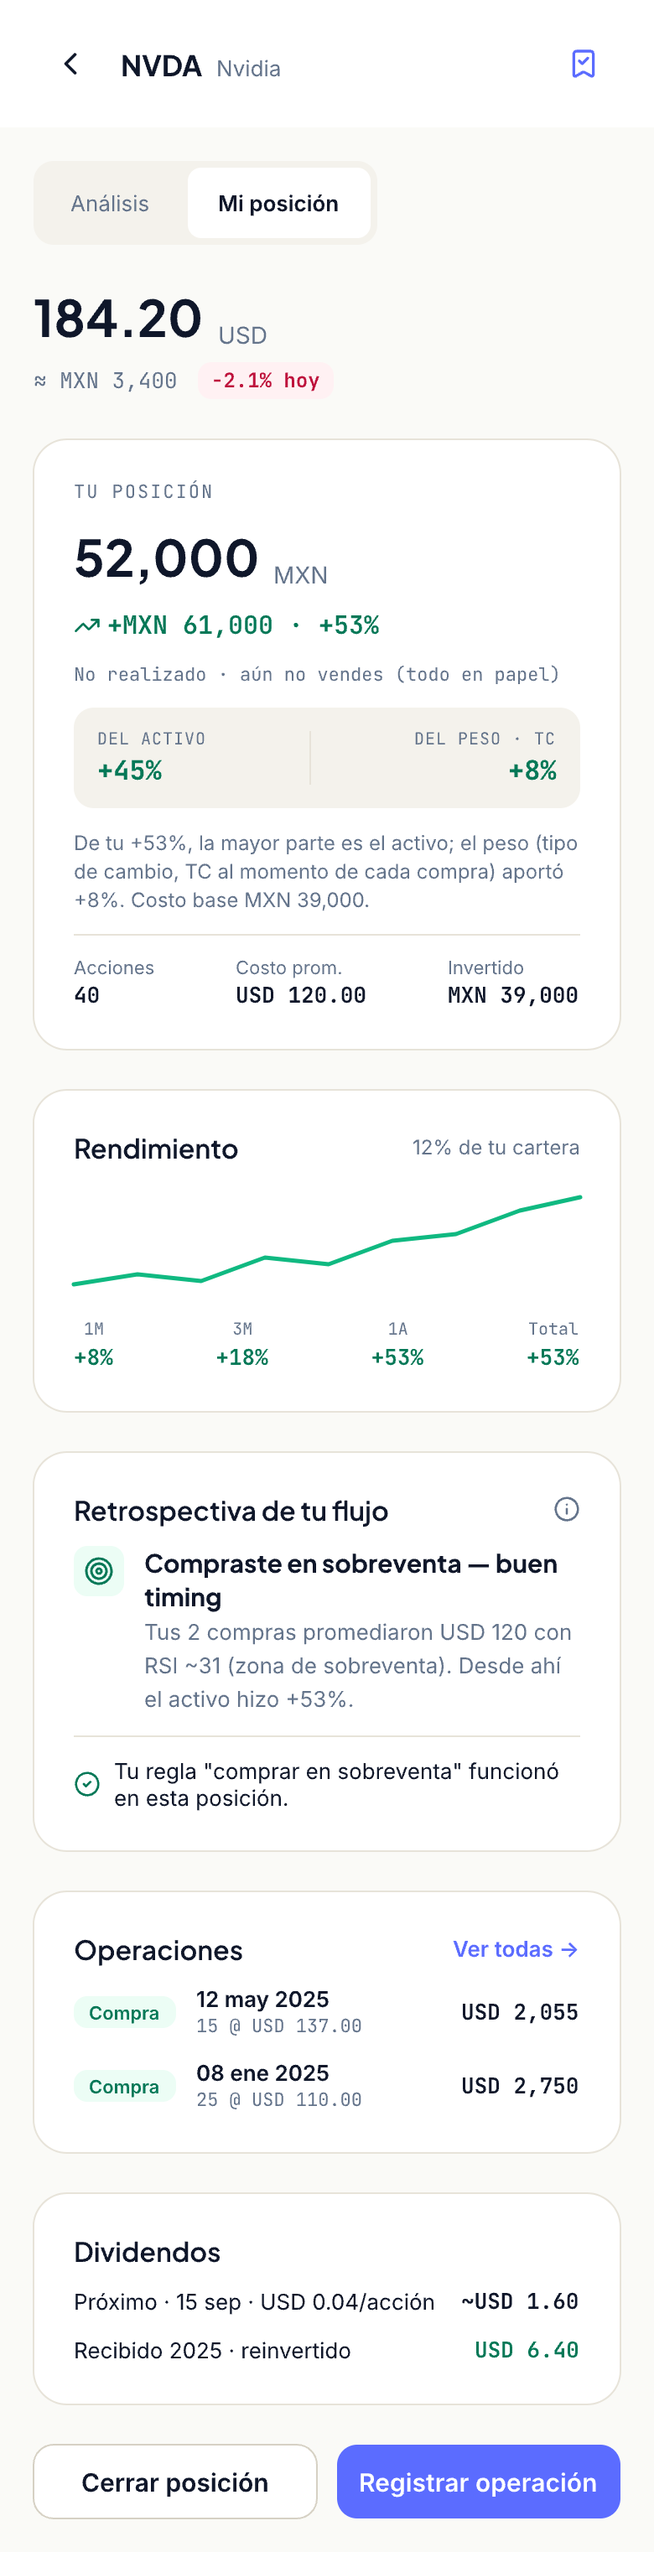
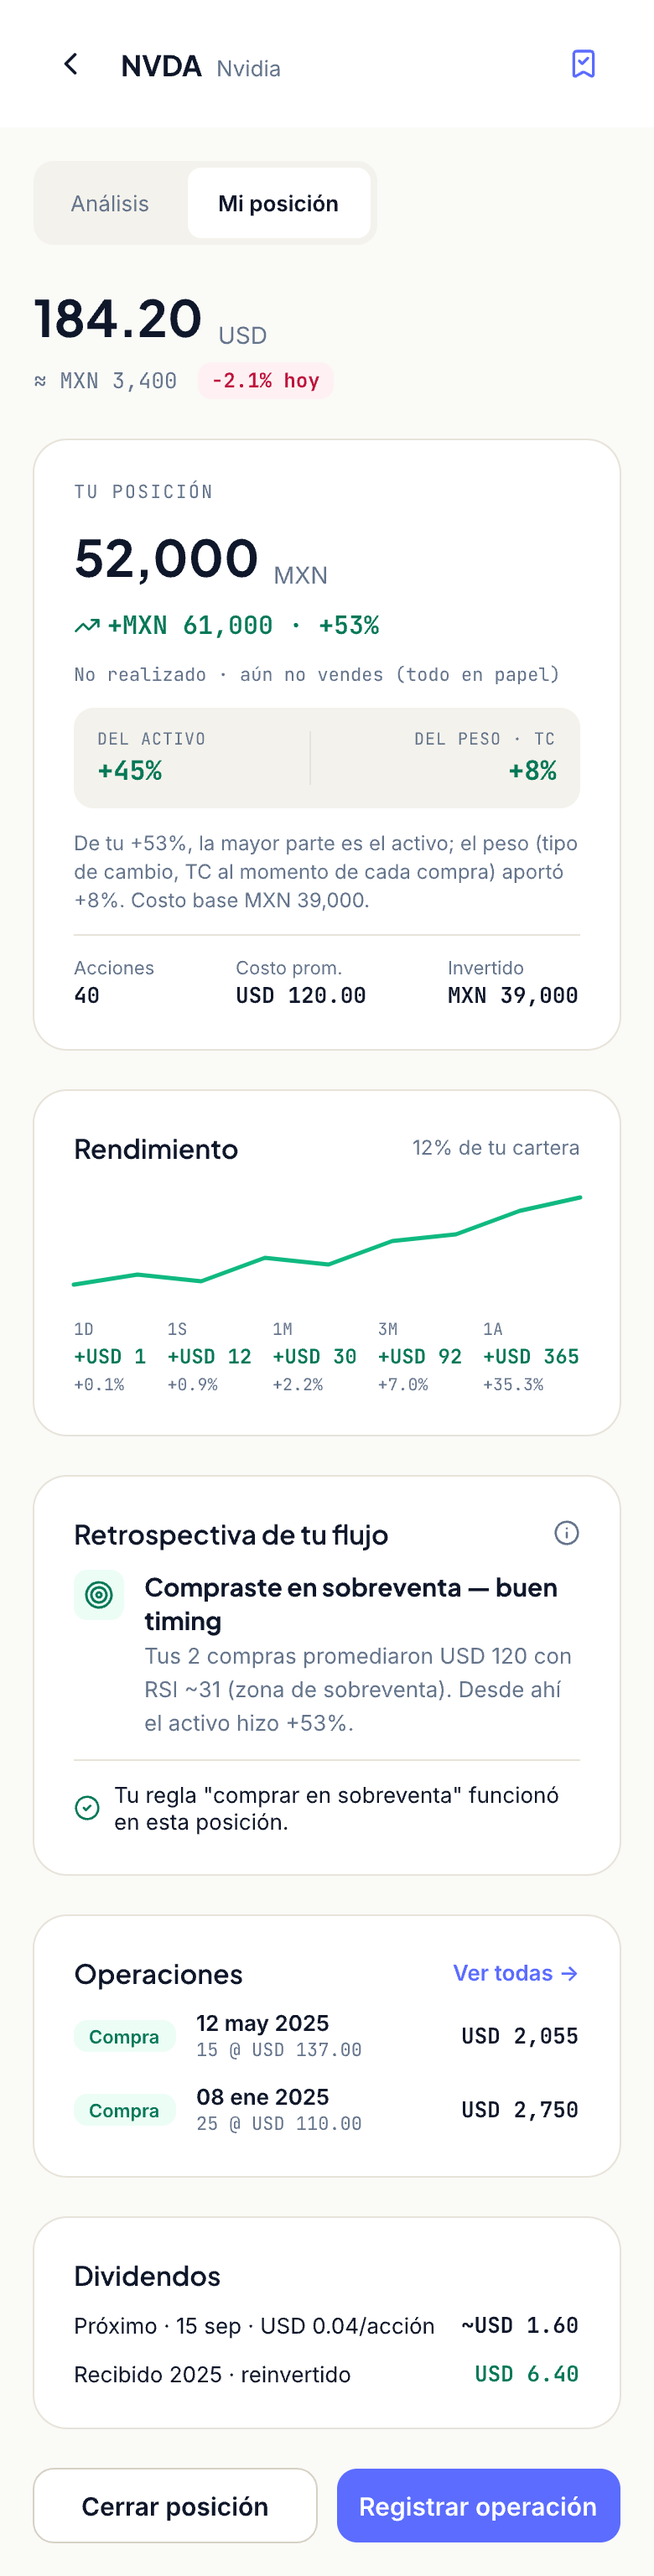
Build Rendimiento with the five windows the trigger asked for
D89 deferred this on its trigger and was right to. The trigger arrived,
and it changed the block: two of the windows Adrian asked for are not on
the artboard, and one the artboard drew came off.

Total came off because Tu posición already is it — the same number, on
the same screen, six centimetres up. Dropping it also keeps the control
at five, which the chart's own range pills already prove fits 390px;
measured on the artboard, five columns carrying money do fit.

Money leads and the percentage follows. 1D as a percentage is the day
change the header already renders, so the pesos are the whole
contribution the block makes.

Money-weighted, which is the opposite call from D12 and deliberately so.
D12 chose time-weighted for the portfolio because that screen compares
against CETES and a deposit must not read as performance. This compares
against nothing: the question is how many pesos this made since Friday.
What it still must not do is count money you added, so the flows come
out — and ExternalFlows gained an asset scope rather than a sibling.

Two defects found by building it. asset_value_on answered 0 for an
unpriceable asset, which is right as one term of a portfolio sum and
wrong as a whole answer: "we cannot say" is not "worth nothing". And
every figure here crosses currencies against a Portfolio#convert that
fails loudly by design, so the first version took the asset detail down
on a missing rate — the exact caller ADR-0023 names as the defect
[…]

diff --git a/spec/contexts/trading/domain/position_returns_spec.rb b/spec/contexts/trading/domain/position_returns_spec.rb
@@ -1,0 +1,98 @@
+require "rails_helper"
+
+RSpec.describe Trading::Domain::PositionReturns do
+  let(:user) { create(:user, preferred_currency: "USD") }
+  let(:portfolio) { create(:portfolio, user: user) }
+  let(:asset) { create(:asset, symbol: "NVDA", currency: "USD") }
+
+  def close(date, price)
+    create(:asset_price_history, asset: asset, date: date, close: price, open: price, high: price, low: price)
+  end
+
+  def buy(shares, price, on:)
+    create(:trade, portfolio: portfolio, asset: asset, side: :buy,
+                   shares: shares, price_per_share: price, executed_at: on)
+  end
+
+  def windows_for
+    described_class.new(portfolio, asset, currency: "USD").windows.index_by(&:key)
+  end
+
+  describe "a position held through the whole window" do
+    before do
+      buy(10, 100, on: 400.days.ago)
+      400.downto(0) { |d| close(d.days.ago.to_date, 100 + ((400 - d) * 0.1)) }
+    end
+
+    it "reports what the window made in money" do
+      # One day of drift at 0.10 a day, ten shares. Asserted on 1D because its
+      # boundary is exact; a month's is whatever the calendar says it is.
+      expect(windows_for["1D"].amount).to be_within(0.01).of(10 * 0.1)
+    end
+
+    it "states the move as a percentage of what was in at the start" do
+      w = windows_for["1A"]
+
+      expect(w.percent).to be_within(0.5).of(w.amount / (10 * (100 + (35 * 0.1))) * 100)
+    end
+
+    it "offers every window, because the position outlives all of them" do
+      expect(windows_for.keys).to match_array(%w[1D 1S 1M 3M 1A])
+    end
+  end
+
+  describe "a window that opens before the position did" do
+    before do
+      buy(10, 100, on: 3.days.ago)
+      10.downto(0) { |d| close(d.days.ago.to_date, 100 + d) }
+    end
+
+    it "is absent rather than zero — not owning it is not the same as not moving" do
+      expect(windows_for.keys).to eq(%w[1D])
+      expect(windows_for["1S"]).to be_nil
+    end
+  end
+
+  describe "money added inside the window" do
+    before do
+      buy(10, 100, on: 60.days.ago)
+      60.downto(0) { |d| close(d.days.ago.to_date, 100) }
+      buy(10, 100, on: 5.days.ago)
+    end
+
+    # The price never moved, so the position earned nothing. A plain
+    # start-to-end diff would call the second purchase a 100% gain — D12's
+    # falsehood, at position scope.
+    it "does not count a purchase as a return" do
+      expect(windows_for["1M"].amount).to be_within(0.01).of(0)
+      expect(windows_for["1M"].percent).to be_within(0.01).of(0)
+    end
+  end
+
+  describe "a sale inside the window" do
+    before do
+      buy(20, 100, on: 60.days.ago)
+      60.downto(0) { |d| close(d.days.ago.to_date, 100) }
+      create(:trade, portfolio: portfolio, asset: asset, side: :sell,
+                     shares: 10, price_per_share: 100, executed_at: 5.days.ago)
+    end
+
+    it "does not read taking money out as a loss" do
+      expect(windows_for["1M"].amount).to be_within(0.01).of(0)
+    end
+  end
+
+  describe "an asset with no price history at all" do
+    before { buy(10, 100, on: 30.days.ago) }
+
+    it "reports nothing rather than guessing" do
+      expect(windows_for).to be_empty
+    end
+  end
+
+  describe "the windows offered" do
+    it "does not include Total, which Tu posición already is" do
+      expect(described_class::WINDOWS.keys).not_to include("Total")
+    end
+  end
+end

diff --git a/app/contexts/trading/domain/position_returns.rb b/app/contexts/trading/domain/position_returns.rb
@@ -1,0 +1,77 @@
+module Trading
+  module Domain
+    # What one position made or lost over a window, in money (#611).
+    #
+    # Money-weighted on purpose, and it is the opposite call from D12's. That
+    # decision chose time-weighted for the portfolio because the screen it
+    # feeds compares against CETES, and a deposit must not read as performance.
+    # This block compares against nothing: the question is "how many pesos did
+    # this position make me since Friday", and the honest answer to that counts
+    # the pesos. What it must not do is count money you *added* as money it
+    # earned — so the flows come out, and only the flows.
+    class PositionReturns
+      Window = Data.define(:key, :amount, :percent)
+
+      # No `Total`. The artboard drew one, and `Tu posición` already is one —
+      # a second copy of the same number on the same screen is not a window
+      # (D95). These five are the ones that did not exist.
+      WINDOWS = {
+        "1D" => -> { 1.day.ago.to_date },
+        "1S" => -> { 1.week.ago.to_date },
+        "1M" => -> { 1.month.ago.to_date },
+        "3M" => -> { 3.months.ago.to_date },
+        "1A" => -> { 1.year.ago.to_date }
+      }.freeze
+
+      # ADR-0023: a screen that converts without an FxDegradation is the defect
+      # that guard exists to prevent. Every figure here crosses currencies, so
+      # a missing rate makes the window absent and the screen able to say why —
+      # it must never take the asset detail down with it.
+      def initialize(portfolio, asset, currency:, degradation: FxDegradation.new)
+        @asset       = asset
+        @degradation = degradation
+        @valuation   = HistoricalValuation.new(portfolio, currency: currency)
+        @flows       = ExternalFlows.new(portfolio, currency: currency, asset: asset)
+      end
+
+      delegate :degraded?, to: :@degradation
+
+      def windows
+        @windows ||= begin
+          current = value_on(Date.current)
+          current.nil? ? [] : WINDOWS.filter_map { |key, from| window(key, from.call, current) }
+        end
+      end
+
+      private
+
+      # Absent, not zero, when the window opens before the position did: not
+      # having owned it yet is a different answer from not having moved, the
+      # same distinction DayChange draws for a newly tracked asset.
+      def window(key, from, current)
+        opened = value_on(from)
+        return nil if opened.nil?
+
+        # from + 1: a trade executed on the opening day is already inside the
+        # value read for that day, so counting it again would remove it twice.
+        contributed = @degradation.figure { @flows.between(from + 1, Date.current) }
+        return nil if contributed.nil?
+
+        amount = current - opened - contributed
+        base = opened + contributed
+
+        Window.new(key: key, amount: amount, percent: percent_of(amount, base))
+      end
+
+      def percent_of(amount, base)
+        return nil unless base.positive?
+
+        amount / base * 100
+      end
+
+      def value_on(date)
+        @degradation.figure { @valuation.asset_value_on(@asset, date) }
+      end
+    end
+  end
+end

diff --git a/spec/requests/market_returns_spec.rb b/spec/requests/market_returns_spec.rb
@@ -1,0 +1,75 @@
+require "rails_helper"
+
+# The Rendimiento block (#611). D89 deferred it on its trigger; the trigger is
+# now documented, and it changed the block's shape: 1D and 1S are not on the
+# artboard, and Total came off it because Tu posición already is one.
+RSpec.describe "Market Rendimiento block", type: :request do
+  let!(:user) { create(:user, email: "rend@example.com", password: "password123", preferred_currency: "USD") }
+  let!(:portfolio) { create(:portfolio, user: user) }
+  let!(:asset) { create(:asset, symbol: "NVDA", currency: "USD") }
+
+  before { login_as(user) }
+
+  def hold_since(days, price_from:, price_to:)
+    position = create(:position, portfolio: portfolio, asset: asset, shares: 10,
+                                 avg_cost: price_from, status: :open, opened_at: days.days.ago)
+    create(:trade, portfolio: portfolio, asset: asset, position: position, side: :buy,
+                   shares: 10, price_per_share: price_from, executed_at: days.days.ago)
+    days.downto(0) do |d|
+      close = price_from + ((price_to - price_from) * (days - d) / days.to_f)
+      create(:asset_price_history, asset: asset, date: d.days.ago.to_date,
+                                   open: close, high: close, low: close, close: close)
+    end
+  end
+
+  it "shows what the position made over each window, in money" do
+    hold_since(400, price_from: 100, price_to: 140)
+
+    get market_asset_path(asset.symbol)
+
+    expect(response.body).to include("Rendimiento")
+    expect(response.body).to include("1 día", "1 sem", "1 mes", "3 meses", "1 año")
+  end
+
+  it "does not offer a window older than the position" do
+    hold_since(10, price_from: 100, price_to: 110)
+
+    get market_asset_path(asset.symbol)
+
+    expect(response.body).to include("1 día", "1 sem")
+    expect(response.body).not_to include("3 meses")
+  end
+
+  it "stays away entirely when nothing is held" do
+    create(:asset_price_history, asset: asset, date: Date.current, close: 100)
+
+    get market_asset_path(asset.symbol)
+
+    expect(response.body).not_to include("Rendimiento")
+  end
+
+  # The bug this block introduced before it was guarded: Portfolio#convert
+  # fails loudly on a missing rate — correct, and by design — so an unguarded
+  # conversion took the whole asset detail down with it (ADR-0023).
+  it "goes absent and says why when the rate is missing, rather than 500ing" do
+    user.update!(preferred_currency: "MXN")
+    hold_since(400, price_from: 100, price_to: 140)
+    FxRate.delete_all
+    FxRateHistory.delete_all
+
+    get market_asset_path(asset.symbol)
+
+    expect(response).to have_http_status(:ok)
+    expect(response.body).to include(I18n.t("comun.sin_tc_titulo"))
+  end
+
+  # The header already states the day change as a percentage. The block earns
+  # its place by being in money, so the money is what must be there.
+  it "leads with pesos, not with the percentage the header already shows" do
+    hold_since(400, price_from: 100, price_to: 140)
+
+    get market_asset_path(asset.symbol)
+
+    expect(response.body).to match(/[+−]USD/)
+  end
+end

diff --git a/app/contexts/trading/domain/external_flows.rb b/app/contexts/trading/domain/external_flows.rb
@@ -4,16 +4,27 @@ module Trading
     # With no cash model (D26) every buy is an inflow and every sell an
     # outflow, so the trades are the only record of them.
     class ExternalFlows
-      def initialize(portfolio, currency:)
+      # `asset` narrows every flow to one position's trades. The arithmetic is
+      # identical — a buy is still an inflow — so the scope is a filter rather
+      # than a second calculation.
+      def initialize(portfolio, currency:, asset: nil)
         @portfolio = portfolio
         @currency  = currency
+        @asset     = asset
+      end
+
+      # Net capital put into this scope between two dates, inclusive of both.
+      # A window's return is what is left after removing it: money you added
+      # is not money the position earned (D12, at position scope).
+      def between(from, to)
+        total_of(trades.where(executed_at: from.beginning_of_day..to.end_of_day))
       end
 
       # Flows a snapshot could not have seen. Keyed on when the trade was
       # recorded, because that is what decides whether the snapshot includes
       # it — the date typed on the form does not.
       def since(time)
-        total_of(@portfolio.trades.kept.where(created_at: time..))
+        total_of(trades.where(created_at: time..))
       end
 
       # Flows per day across a range, for a history that has been rebuilt to
@@ -23,13 +34,18 @@ module Trading
       # Returns a Hash defaulting to 0, built from one query — a year of daily
       # sub-periods would otherwise ask 365 times.
       def by_date(range)
-        trades = @portfolio.trades.kept.where(executed_at: range.first.beginning_of_day..range.last.end_of_day)
+        rows = trades.where(executed_at: range.first.beginning_of_day..range.last.end_of_day)
 
-        trades.group_by { |trade| trade.executed_at.to_date }
+        rows.group_by { |trade| trade.executed_at.to_date }
               .each_with_object(Hash.new(0)) { |(date, group), acc| acc[date] = total_of(group) }
       end
 
       private
+
+      def trades
+        scope = @portfolio.trades.kept
+        @asset ? scope.where(asset_id: @asset.id) : scope
+      end
 
       def total_of(trades)
         trades.sum do |trade|

diff --git a/app/contexts/trading/domain/historical_valuation.rb b/app/contexts/trading/domain/historical_valuation.rb
@@ -32,6 +32,24 @@ module Trading
         held.select { |_, shares| shares.positive? }
       end
 
+      # One asset's value on a past date. `market_value_on` answers the same
+      # question for the whole portfolio; the block that asks this one is per
+      # position, and re-deriving it there would be a second calculation of a
+      # sum this class already knows how to take.
+      #
+      # nil, not zero, when nothing was held: "you did not own this yet" and
+      # "it was worth nothing" are different answers.
+      def asset_value_on(asset, date)
+        shares = shares_on(date)[asset]
+        return nil if shares.nil? || shares.zero?
+        # value_of answers 0 for an unpriceable asset, which is right when it is
+        # one term of a portfolio sum and wrong as the whole answer: here it
+        # would read as "worth nothing" rather than "we cannot say".
+        return nil if adjusted_close(asset, date).nil?
+
+        value_of(asset, shares, date)
+      end
+
       private
 
       def value_of(asset, shares, date)

diff --git a/app/controllers/market_controller.rb b/app/controllers/market_controller.rb
@@ -29,6 +29,10 @@ class MarketController < AuthenticatedController
       # readings are composed here from their own contexts.
       @position_data = Trading::UseCases::LoadAssetPosition.call(user: current_user, asset: @asset)
       @holding = @position_data.present?
+      @returns = if @holding && current_user.portfolio
+                   Trading::Domain::PositionReturns.new(current_user.portfolio, @asset,
+                                                        currency: current_user.preferred_currency)
+      end
       @asset_rules = Alerts::UseCases::LoadAssetRules.call(user: current_user, symbol: @asset.symbol)
       @is_watchlisted = current_user.watchlist_items.exists?(asset_id: @asset.id)
       @anchors = Trading::UseCases::LoadAssetAnchors.call(

diff --git a/app/helpers/money_helper.rb b/app/helpers/money_helper.rb
@@ -5,6 +5,14 @@ module MoneyHelper
     "#{currency} #{number_with_precision(amount || 0, precision: precision, delimiter: ",")}"
   end
 
+  # A gain or loss carries its sign, and the sign is the typographic minus for
+  # the same reason signed_percent's is: a hyphen is a separator, not a sign.
+  # The sign leads because the reader is scanning for direction before amount.
+  def signed_currency_mx(amount, currency:, precision: 2)
+    value = amount.to_d
+    "#{value.negative? ? "−" : "+"}#{format_currency_mx(value.abs, currency: currency, precision: precision)}"
+  end
+
   SIGNIFICANT_DIGITS = 4
   MAX_DECIMALS = 8
 

diff --git a/design/DECISIONS.md b/design/DECISIONS.md
@@ -162,6 +162,7 @@ values, so entries also record forward design calls — each with what we picked
 | **D92** | `/help` has no artboard (A2) | Draw it · **A brief note instead** | ✅ **A note — Adrian's call, 2026-09-05.** `/help` is `/welcome` with the greeting swapped for a title and the CTA removed: same `shared/_welcome_body`, same container, same max width. `design/README`'s own state rule covers it — *build a state only when it carries information the design lacks; a pure string swap goes in the brief*. `onboarding-welcome.png` already shows 95% of the screen, and two near-identical artboards are the drift that forces both to be maintained when one changes. Recorded in `onboarding.pen`'s brief instead. |
 | **D93** | Whether the asset detail's range control and O/H/L/C strip get built, or the artboard loses them (CKP-2, under D78's carve-out) | **Build them** · Amend the artboard · Leave it gated | ✅ **Built — Adrian's call, 2026-09-05, on the measurement the card itself demanded.** CKP-2 said in its own words: *"What unblocks this is one number, not a decision: how many bars the table actually holds per asset in production... Re-measure before treating this as blocked or as buildable."* Measured against production: **42 assets at 200+ bars, min 315, max 2952**, five below and one open position short. So the gate CKP-2 inherited from `X9` is gone, and the control has years to range over rather than the four identical charts its 2026-08-29 amendment feared. **Three things the build settled that the card did not specify.** (1) The heading **stops claiming a window**: it read *"Precio · USD · 30 días"* against a fixed query, and with a control the active pill is the statement — one place, no drift, which is what the old constant's comment was for. (2) The strip is **the latest bar, not the range's aggregate** — it sits beside a range control and answers what the last session did, which is the question every chart puts there; a period O/H/L/C would move with the pills and mean something else. (3) `MAX` on the deepest asset serialises **104 KB of JSON into a 190 KB attribute**. It is a deliberate click rather than the default, and it gzips — but downsampling would change what the chart plots, so it is recorded rather than optimised away, and stays a design call. **Worth reading next to [D66](#):** the toggle that shipped the day before routes *around* a thin chart; this makes the chart less thin, which is the narrower and more honest answer to the same complaint. |
 | **D94** | Whether Descubrir's `Ver las 17 canastas →` gets its destination after D73 dropped it (DSC-1) | A fourth screen · **Open the rest in place** · Leave it a sentence | ✅ **Opened in place — Adrian's call, 2026-09-05, and it reverses D73 on the one thing D73 rested on.** D73 dropped the arrow *"rather than build a screen nobody has asked to browse"*. Somebody asked: *"vayamos por flecha y un title o algo que me diga que es o significa"*. The premise expired; the decision goes with it. That is D54's shape, not a flip-flop. **A fourth screen was the wrong way to honour it.** [D31](#)'s disposability contract counts what deleting Descubrir costs — one folder, **one route**, one nav entry, one job, one spec — so a new route buys a list with the one currency that contract is denominated in. A `<details>` on the screen that already has the data costs none of it. **The half that was actually asked for was never the arrow.** *"Algo que me diga qué es o significa"* is the `group` field — `geografia · sectores · temas · termometros` — which `config/discover_baskets.yml` has carried since D31 and **no view has ever rendered**. It now labels every row (*"Semiconductores · sector"*) and heads each section of the expansion. The seventeen were the easy half; naming them was the ask. **DSC-1 was stale when it was read**, presenting the choice as open when D73 had closed it — the fourth card today whose stated position had moved. |
+| **D95** | What `Rendimiento`'s windows are, now that D89's trigger arrived and changed them (#611) | The artboard's four · **Five, and not the artboard's four** · Six | ✅ **Five — `1D · 1S · 1M · 3M · 1A`, decided 2026-09-05 while building it.** D89 deferred this on its trigger; Adrian gave one — *"me gusta saber si voy ganando o perdiendo dinero al momento, como 2-3 veces al día reviso mis apps"* — and asked for two windows the artboard never drew: *"tal vez agregar otros intervalos de 1 semana y 1 día"*. **`Total` came off, and that is the substantive edit.** The artboard drew it, and `Tu posición` **is** it — the same number, on the same screen, six centimetres up. A second copy is not a window. Dropping it also keeps the control at five, which is what the chart's own range pills already prove fits the 390px frame; six would have needed a smaller size to hold *Total*, the one label that earns nothing. **Money first, and the reason is the same shape:** `1D` as a percentage is the day change `components/asset_price` already renders in the header, so the pesos are the whole contribution. **Money-weighted, which is the opposite call from [D12](#) and deliberately so.** D12 chose time-weighted for the portfolio because that screen compares against CETES and a deposit must not read as performance. This block compares against nothing: the question is how many pesos the position made since Friday, and the honest answer counts pesos. What it still must not do is count money you *added* — so the flows come out, and only the flows, which is why `ExternalFlows` gained an asset scope rather than a sibling. **One defect found by building it:** every figure here crosses currencies, and `Portfolio#convert` fails loudly by design, so the first version took the whole asset detail down on a missing rate. [ADR-0023](#) names that exact caller as the defect `FxDegradation` exists to prevent. The block is now absent-and-says-why, with a regression spec. |
 
 ## Changes to make in code (once decisions land)
 
